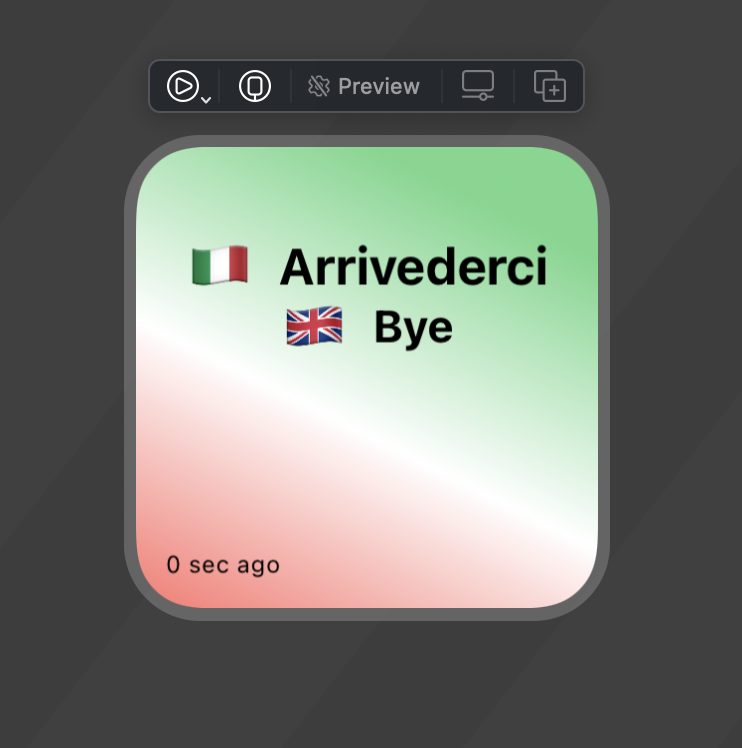
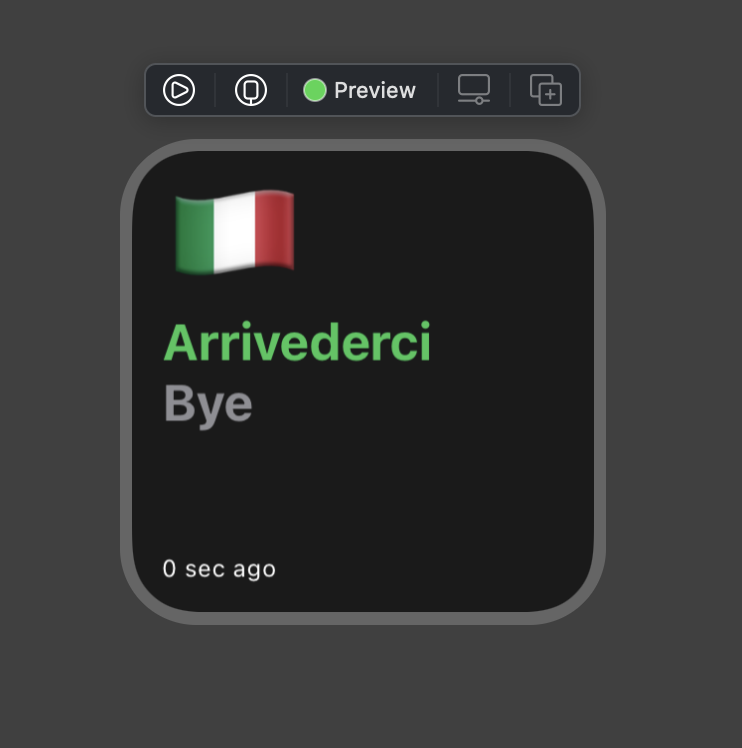
immediate redesign

diff --git a/DailyWidget/DailyWidget.swift b/DailyWidget/DailyWidget.swift
@@ -29,7 +29,7 @@ struct Provider: TimelineProvider {
     }
     
     func getTimeline(in context: Context, completion: @escaping (Timeline<WordEntry>) -> Void) {
-                
+        
         // Time of creation
         let now: Date = Date()
         
@@ -42,7 +42,7 @@ struct Provider: TimelineProvider {
             
             // WordEntry(date: Date(), word: Word(native: "Bye", foreign: "Arrivederci"))
             let entry = WordEntry(date: now, word: response ?? Word(native: "oops", foreign: "oops"))
-                    
+            
             let timeline = Timeline(entries: [entry], policy: .after(future))
             completion(timeline)
         }
@@ -50,38 +50,53 @@ struct Provider: TimelineProvider {
     
     typealias Entry = WordEntry
 }
-    
+
 struct WidgetEntryView: View {
     //let entry: Provider.Entry
     let word: Word
     let date: Date
     
     var body: some View {
-        VStack {
+        
+        VStack(alignment: .leading, spacing: 0, content: {
+            // Flags
+            HStack {
+                Text("🇮🇹")
+                    .font(.system(size: 45))
+                //                Text("->")
+                //                    .font(.system(size: 20))
+                //                Text("🇬🇧")
+                //                    .font(.system(size: 45))
+            }
+            .padding(.leading, 10)
+            .foregroundColor(.white)
+            // Words
             WordView(word: word)
-                .padding(.top, 30)
+                .padding(.leading, 10)
             Spacer ()
+            Spacer ()
+            // Created Timer
             VStack(alignment: .trailing, spacing: nil, content: {
                 Text("\(date, style: .relative) ago")
                     .font(.system(size: 8))
-                            .foregroundColor(.black)
+                    .foregroundColor(.white)
             })
             .padding(.bottom, 10)
             .padding(.leading, 10)
-           
-        }
+        })
+        
         .frame(minWidth: 0, maxWidth: .infinity, minHeight: 0, maxHeight: .infinity)
         .background(
             LinearGradient(
-                gradient: Gradient(colors: [.green, .white, .red]),
+                gradient: Gradient(colors: [.black]),
                 startPoint: .top,
                 endPoint: .bottomLeading)
-                .opacity(0.7)
-                .shadow(radius: 5.0))
- 
-
+                .opacity(0.90)
+                .shadow(radius: 10.0))
+        
+        
     }
-
+    
 }
 
 @main
@@ -94,7 +109,7 @@ struct DailyWidget: Widget {
         }).supportedFamilies([.systemSmall])
     }
 }
-    
+
 struct DailyWidget_Previews: PreviewProvider {
     static var previews: some View {
         WidgetEntryView (word: Word(native: "Bye", foreign: "Arrivederci"), date: Date())

diff --git a/DailyItalianWord/WordView.swift b/DailyItalianWord/WordView.swift
@@ -13,26 +13,21 @@ struct WordView: View {
     let word: Word
     
     var body: some View {
-        VStack {
+        VStack(alignment: .leading, spacing: nil, content: {
             HStack {
-                
-                Text("🇮🇹")
                 Text(word.foreign)
-                    .foregroundColor(.black)
-                    .fontWeight(/*@START_MENU_TOKEN@*/.bold/*@END_MENU_TOKEN@*/)
-                    .scaledToFill()
-                    .minimumScaleFactor(0.001)
-                    .lineLimit(1)
-                
+                    .fontWeight(.bold)
+                    .foregroundColor(.green)
+                    .multilineTextAlignment(.leading)
+                    .scaledToFit()
             }
             HStack {
-                Text("🇬🇧")
                 Text(word.native)
-                    .foregroundColor(.black)
                     .fontWeight(/*@START_MENU_TOKEN@*/.bold/*@END_MENU_TOKEN@*/)
-                    .font(.subheadline)
+                    .foregroundColor(.gray)
+                    .multilineTextAlignment(.leading)
             }
-        }
+        })
     }
 }
 
